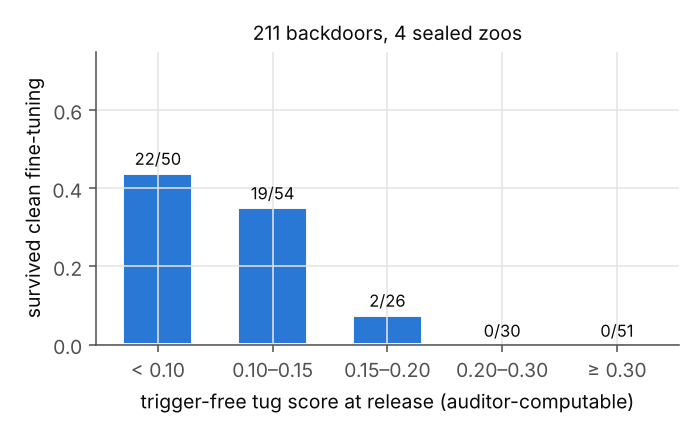
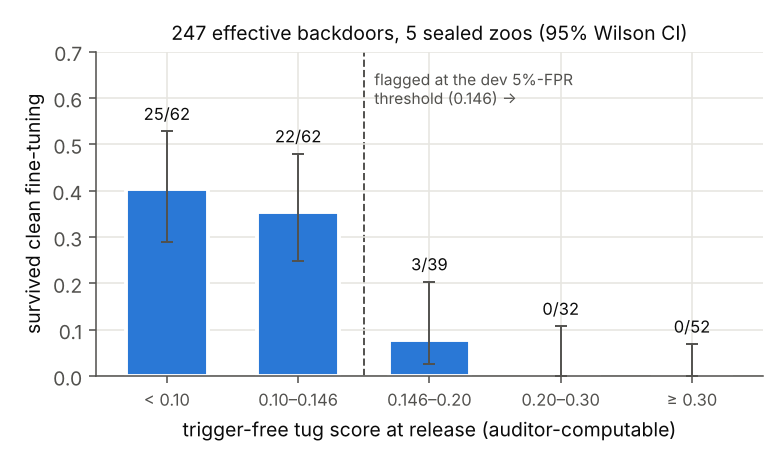
Figures: H1 histogram on sealed zoos only (density); survival by score over all five sealed zoos with dev threshold and Wilson CIs
Claude-Session: https://claude.ai/code/session_017REhGJF2ojJU6FrggAw94v

diff --git a/lab/analysis/figures.py b/lab/analysis/figures.py
@@ -32,13 +32,14 @@ def fig_law(zoos, out):
                 fake += [d[k] for k in d if k.startswith("cos_fake")]
     fig, ax = plt.subplots(figsize=(6, 3.2))
     bins = np.linspace(-0.8, 0.3, 45)
-    ax.hist(fake, bins=bins, color=ORANGE, alpha=0.85, label=f"benign model vs fake hidden objective (n={len(fake)})",
-            edgecolor="white", linewidth=1)
-    ax.hist(true, bins=bins, color=BLUE, alpha=0.85, label=f"backdoored model vs its true hidden objective (n={len(true)})",
-            edgecolor="white", linewidth=1)
+    ax.hist(fake, bins=bins, density=True, color=ORANGE, alpha=0.6,
+            label=f"benign model vs fake hidden objective ({len(fake)} draws)", edgecolor="white", linewidth=1)
+    ax.hist(true, bins=bins, density=True, color=BLUE, alpha=0.75,
+            label=f"backdoored model vs its true hidden objective (n={len(true)})", edgecolor="white", linewidth=1)
     ax.axvline(0, color=MUTED, lw=1)
     ax.set_xlabel("cos( clean-data gradient , hidden-objective gradient )  at released weights")
-    ax.set_ylabel("count")
+    ax.set_ylabel("density")
+    ax.set_title("sealed zoo2 + zoo4", fontsize=10, color=INK)
     ax.legend(loc="upper left", fontsize=8)
     fig.tight_layout()
     fig.savefig(out)
@@ -139,7 +140,16 @@ def fig_zoo2(outdir, z="runs/zoo2"):
     fig.savefig(os.path.join(outdir, "survival_zoo2.png"))
 
 
-def fig_survival_pooled(outdir, zoos=("zoo2", "zoo4", "zoo5", "zoo6")):
+def wilson(k, n, z=1.96):
+    p = k / n
+    d = 1 + z * z / n
+    c = (p + z * z / (2 * n)) / d
+    h = z * np.sqrt(p * (1 - p) / n + z * z / (4 * n * n)) / d
+    return c - h, c + h
+
+
+def fig_survival_pooled(outdir, zoos=("zoo2", "zoo3", "zoo4", "zoo5", "zoo6"), thr=0.146):
+    """Survival under clean fine-tuning by release-time score; bins share an edge with the dev 5%-FPR threshold."""
     xs, cens = [], []
     for z in zoos:
         tug = load_scores(os.path.join("runs", z), "tug_frozen")
@@ -147,23 +157,27 @@ def fig_survival_pooled(outdir, zoos=("zoo2", "zoo4", "zoo5", "zoo6")):
             xs.append(tug[d["id"]]["tok_min_cos"])
             cens.append(d["censored"])
     xs, cens = np.array(xs), np.array(cens)
-    bins = [(0, 0.1), (0.1, 0.15), (0.15, 0.2), (0.2, 0.3), (0.3, 1)]
-    labs = ["< 0.10", "0.10–0.15", "0.15–0.20", "0.20–0.30", "≥ 0.30"]
-    rates, ns, ks = [], [], []
+    bins = [(-1, 0.10), (0.10, thr), (thr, 0.20), (0.20, 0.30), (0.30, 9)]
+    labs = ["< 0.10", f"0.10–{thr}", f"{thr}–0.20", "0.20–0.30", "≥ 0.30"]
+    rates, lo, hi, ns, ks = [], [], [], [], []
     for a, b in bins:
         sel = (xs >= a) & (xs < b)
-        ns.append(int(sel.sum()))
-        ks.append(int(cens[sel].sum()))
-        rates.append(cens[sel].mean() if sel.any() else 0)
-    fig, ax = plt.subplots(figsize=(5.0, 3.1))
-    ax.bar(range(len(bins)), rates, color=BLUE, width=0.62, edgecolor="white", linewidth=2)
-    for i, (r_, k_, n_) in enumerate(zip(rates, ks, ns)):
-        ax.text(i, r_ + 0.02, f"{k_}/{n_}", ha="center", fontsize=8.5, color=INK)
-    ax.set_xticks(range(len(bins)), labs)
-    ax.set_ylim(0, 0.75)
+        n_, k_ = int(sel.sum()), int(cens[sel].sum())
+        l_, h_ = wilson(k_, n_)
+        ns.append(n_); ks.append(k_); rates.append(k_ / n_); lo.append(k_ / n_ - l_); hi.append(h_ - k_ / n_)
+    fig, ax = plt.subplots(figsize=(5.6, 3.3))
+    x = np.arange(len(bins))
+    ax.bar(x, rates, color=BLUE, width=0.62, edgecolor="white", linewidth=2, zorder=2)
+    ax.errorbar(x, rates, yerr=[lo, hi], fmt="none", ecolor=MUTED, elinewidth=1, capsize=3, zorder=3)
+    for i, (r_, h_, k_, n_) in enumerate(zip(rates, hi, ks, ns)):
+        ax.text(i, r_ + h_ + 0.025, f"{k_}/{n_}", ha="center", fontsize=8.5, color=INK)
+    ax.axvline(1.5, color=MUTED, lw=1, ls="--", zorder=1)
+    ax.text(1.58, 0.66, f"flagged at the dev 5%-FPR\nthreshold ({thr}) →", fontsize=8, color=MUTED, va="top")
+    ax.set_xticks(x, labs, fontsize=8.5)
+    ax.set_ylim(0, 0.7)
     ax.set_xlabel("trigger-free tug score at release (auditor-computable)")
     ax.set_ylabel("survived clean fine-tuning")
-    ax.set_title(f"{len(xs)} backdoors, 4 sealed zoos", fontsize=10, color=INK)
+    ax.set_title(f"{len(xs)} effective backdoors, {len(zoos)} sealed zoos (95% Wilson CI)", fontsize=10, color=INK)
     fig.tight_layout()
     fig.savefig(os.path.join(outdir, "survival_pooled.png"))
 
@@ -171,7 +185,7 @@ def fig_survival_pooled(outdir, zoos=("zoo2", "zoo4", "zoo5", "zoo6")):
 if __name__ == "__main__":
     outdir = sys.argv[1]
     os.makedirs(outdir, exist_ok=True)
-    fig_law(["runs/zoo1", "runs/zoo2", "runs/zoo3", "runs/zoo4"], os.path.join(outdir, "law.png"))
+    fig_law(["runs/zoo2", "runs/zoo4"], os.path.join(outdir, "law.png"))
     fig_duality(["runs/zoo2/persistence_lr1e-4.jsonl"], os.path.join(outdir, "duality.png"))
     fig_zoo2(outdir)
     fig_survival_pooled(outdir)
